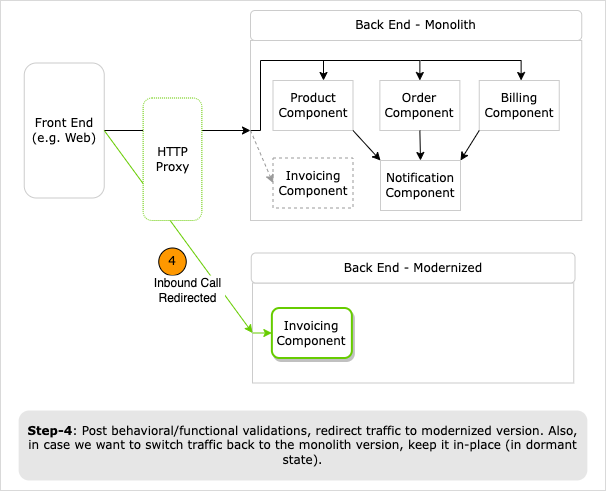
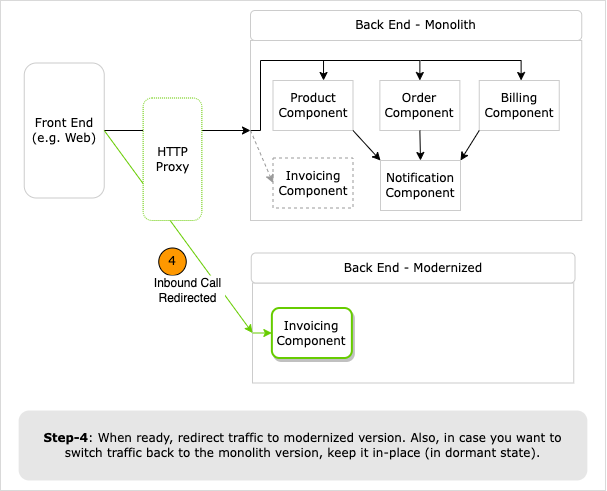
[v2-WIP] - clean up in process
1/ Cleaned up index and strangler fig
2/ WIP for Branch by Abstraction

diff --git a/modernization-patterns/1-strangler-fig-pattern.md b/modernization-patterns/1-strangler-fig-pattern.md
@@ -3,8 +3,9 @@
 ## Pattern Origins (optional read)
 <details>
 <summary>click to expand</summary>
-First captured by Martin Fowler, who was inspired by a certain type of fig that seeds itself in the upper branches of trees. The existing tree becomes initially a support structure for the new fig. The fig then descends toward the ground to take root, gradually enveloping the original tree, and leaving only the new self-supporting fig in its place.
+First captured by Martin Fowler [link](https://martinfowler.com/bliki/StranglerFigApplication.html), who was inspired by a certain type of fig that seeds itself in the upper branches of trees. The existing tree becomes initially a support structure for the new fig. The fig then descends toward the ground to take root, gradually enveloping the original tree, and leaving only the new self-supporting fig in its place.
 </details>
+
 <br/>
 
 ## Overview
@@ -12,22 +13,22 @@ First captured by Martin Fowler, who was inspired by a certain type of fig that 
 <details>
 <summary>click to expand</summary>
 
-This pattern is commonly used to incrementally replace a legacy system - component by component - with a modernized version. The idea is that the old and the new will co-exist and new system initially be supported by, and wrapping, the existing system. This will give the new system time to grow and potentially entirely replace the old system. 
+Commonly used to incrementally replace a legacy system - component by component - with a modernized version. Goal is for legacy and new modernized versions to co-exist; new system initially be supported by, and wrapping, the existing system. This will give the new system time to grow and potentially entirely replace the old system. 
 
-For the strangler to work well: 1/ you need to be able to intercept outside the system calls at the perimeter of your monolith and 2/ easily redirect the inbound calls for functionality you care about to the asset that you want to move.
+For Strangler Fig pattern to work well: 1/ you need to be able to intercept outside the system calls at the perimeter of your monolith and 2/ easily redirect the inbound calls for functionality you care about to the asset that you want to move.
 
-In the example diagram below, Strangler Fig pattern will work well for Product, Order, Billing, and Invoicing components. You can intercept and redirect outside the system inbound HTTP calls to their modernized version. 
-
-On the Contrary, Strangler Fig pattern would not work well for Notification component. Because notifications are fired as a result of multiple inbound calls to the existing monolith. Therefore, you can’t clearly redirect the calls from outside the system itself. Another pattern called [Branch by Abstraction](./2-branch-by-abstraction.md) would work well (discussed later).
+In the example diagram below, Strangler Fig pattern will work well for Product, Order, Billing, and Invoicing components. You can intercept and redirect outside the system inbound HTTP calls to their modernized version.
 
 ![strangler fig pattern tldr](../diagrams/strangler-fig-pattern-tldr.png)
 
-> The more work you have to do in the proxy layer to understand and potentially redirect the inbound call, the less viable Strangler Fig pattern option may become.
+On the Contrary, Strangler Fig pattern would not work well for Notification component. Because notifications are fired as a result of multiple inbound calls to the legacy application. Therefore, you can’t clearly redirect the calls from outside the system itself. Another pattern called [Branch by Abstraction](./2-branch-by-abstraction.md) would work well (discussed later).
 
 **How It Work (TL;DR)**
 1. Identify component(s) to modernize first.
-1. Parallel to the monolith, modernize component(s); as applicable, port or re-write.
-1. Keep monolith around (for rollback) but redirect existing calls to the modernized version.
+1. In parallel to the legacy application, create modernized component(s); as applicable, port or re-write.
+1. Keep legacy version around (for rollback) and slowly start redirecting traffic to the modernized version.
+
+> Tip: The more work you have to do in the proxy layer to understand and potentially redirect the inbound call, the less viable Strangler Fig pattern option may become.
 
 </details>
 
@@ -38,76 +39,73 @@ On the Contrary, Strangler Fig pattern would not work well for Notification comp
 <details>
 <summary>click to expand</summary>
 
-- This pattern allows you to move functionality over to your new services architecture without having to touch or make any changes to your existing system.
-
-- Incremental modernization to a new system gives you the ability to pause/stop while still taking advantage of the new system delivered so far.
+- Allows you to incrmentally move functionality over to your modernized architecture without causing disruption to your legacy application.
 
 - Without switching live traffic, you can deploy the modernized components to production, perform tests in-parallel to the existing system, and validate functional behavior.
 
-> **Deployment vs Release**: Important to keep the deployment & release concepts separate. `Deployment`: only push to Production and validate functional behavior. When modernized component is ready to be consumed by the end user, you can `Release` it (goes live).
+- Incremental modernization gives you the ability to pause/stop while still taking advantage of the modernized system delivered so far.
+
+> **Deployment vs Release**: Important to keep the deployment & release concepts separate. `Deployment`: Push to production and validate functional behavior. It's not live yet! 
+`Release`: When modernized component is ready, you can start directing user traffic to it.
 
 **Be mindful:**
 
-- To modernize components which exist deeper inside the existing system with upstream dependencies, [Branch by Abstraction](./2-branch-by-abstraction.md) is better pattern.
-
-  Example: In sample application depicted below, you want to modernize Notification component.
-
-  ![branch-by-abstraction-overview](../diagrams/branch-by-abstraction-overview.png)
-
 - While modernizing component, try to freeze functional or behavioral changes (e.g. bug fixes or feature additions).
-  - Allowing changes may make the rollback - switch from modernized to monolith version - scenario much harder.
+  - Allowing changes may make the rollback - switch from modernized to legacy version - scenario much harder.
 
 </details>
 
 <br/>
 
-## Pattern Execution Process
+## Pattern Execution Walkthrough
 
 <details>
 <summary>click to expand</summary>
 
- Prior to steps below, ensure you've reviewed `Decomposed Monolith to Modular Services / Baseline` section in [index.md](../index.md).
+ Prior to steps below, ensure you've reviewed `Modernization Baseline` section in [index.md](../index.md).
 
-1. Identify modernization candidate component(s). For the sample application depicted below, we will choose Invoicing component.
+1. Identify modernization candidate component(s). From sample legacy application depicted below, you will choose Invoicing component with no upstream dependencies.
 
     ![strangler-fig-identify-component](../diagrams/strangler-fig-identify-component.png)
 
-1. Incorporate HTTP Proxy (e.g API Gateway) to help control the incoming traffic (e.g. switch between monolith/modernized versions).
+1. Incorporate HTTP Proxy (e.g API Gateway) to intercept and direct outside the system calls (e.g. switch between monolith/modernized versions).
 
     1. If Proxy is new to the ecosystem, then integrate one, as simple pass through.
-    1. Pass through approach will help you: 1/ assess impact of adding network hop and acceptable latency and 2/ ensure the system continues to operate as before.
+    1. Pass through approach will help you: 
+     - 1/ assess impact of adding network hop and acceptable latency
+     - 2/ ensure the system continues to operate as before.
 
     ![strangler-fig-http-proxy](../diagrams/strangler-fig-http-proxy.png)
 
     **Be mindful**
     1. Follow the mantra of “smart endpoints and dumb pipes". You're optimizing for independent deployability of your services and converting this Proxy into yet another *shared* smart middleware pipe could slow down the process of making and deploying changes quickly.
-    1. One alternative could be to push any protocol translation into the service itself (e.g. JSON-->gRPC).
+    1. Where applicable, try to push any protocol translation into the service itself (e.g. JSON-->gRPC).
     1. Another alternative is service mesh: each service instance communicates with other service instances via its own, dedicated local proxy. Local proxy helps avoid creating a shared smart pipe and each service can own its own piece of the service-to-service pipe as needed.
 
         ![strangler-fig-service-mesh](../diagrams/strangler-fig-service-mesh.png)
 
-1. Get a basic component up and running without any functionality being implemented.
+1. Get a skeleton of modernized component up and running without any functionality being implemented.
     1. Component should accept calls made to the match the functionality but at this point you can return 501, Not Implemented. 
     1. Optionally, you could get this component deployed to production. This will help you become comfortable with production push process through your CI/CD pipelines. Its not released yet (gone live).
 
-1. Iteratively modernize component's functionality. Example:
-    1. Modernize (port or re-write) component's functionality from .NET Framework to .NET Core, targeting Linux (ARM or x86).
+1. Incrementally, modernize component's functionality. Example:
+    1. Port or re-write component's functionality from .NET Framework to .NET Core, targeting Linux (ARM or x86).
     1. Reference common libraries via NuGet packages.
     1. Containerize the component (e.g. Docker).
-    1. As you continue to build out the modernized component, you can iteratively start pushing it to production and validate that its working as expected.
+    1. Iteratively start pushing it to production and validate that its working as expected.
 
     ![strangler-fig-modernize-component](../diagrams/strangler-fig-modernize-component.png)
 
-    > [Tip] - While porting, ensure any functionality rewrites are small - doable over few days or weeks - and you could ship this reworked functionality to your customers regularly. If the timelines start to look more like several months, you should reexamine your approach.
+    > [Tip] - While modernizing, ensure any functionality rewrites are small - doable over few days or weeks - and if needed, you could ship this reworked functionality to your customers regularly. If modernization timelines start to look more like several months, you should reexamine your approach.
 
-1. Redirect Calls
+1. Redirect Traffic
 
-    1. Modernized component is fully built, tested, and deployed to production and ready to go live! Also, leave the monolith in place as fallback.
-    1. Configure the HTTP Proxy to redirect calls to the modernized component.
+    1. Modernized component is fully built, tested, and deployed to production and serve user traffic.
+    1. Configure your HTTP Proxy to redirect outside the system call to the modernized component.
 
         ![strangler-fig-switch-traffic](../diagrams/strangler-fig-switch-traffic.png)
     
-    1. Other common approaches:
+    1. Other common approaches to control traffic:
         1. Use Feature flags.
         1. Canary deployment.
         1. Parallel run alongside the monolith to ensure its outputs matches the existing functionality.

diff --git a/index.md b/index.md
@@ -1,47 +1,61 @@
 # Objectives
 
-Modernizing a Monolith application is a journey of consistent and iterative takes rather than a big bang. There is no silver bullet or perfect approach or perfect architecture. It's about moving forward with the trade-offs that work best for your organization.
+Modernizing legacy application is a journey of consistent and iterative takes rather than a big bang. Your modernization journey should adhere to following tenets:
 
-Below we will discuss recommendations to plan your journey in ways that you can continue to support the existing business (i.e. monolith app) and achieve value driven progress towards your modernization goals.
+- With minimal to no risk, quickly build confidence in your modernization approach (i.e. blueprint).
+- Minimize disruptions to other developers working in parallel on the existing system.
+- Continuously show incremental modernization gains with the flexibility to pause/stop modernization while retaining the investment.
 
-## Modernization Approach Tenets
+In this module, you will learn about two modernization patterns - Strangler Fig and Branch by Abstraction - to help with your modernization journey.
 
-1. With minimal to no risk, quickly build confidence in your modernization approach.
-1. Minimize disruptions to other developers working in parallel on the existing system.
-1. Ability to continuously show modernization value with the flexibility to pause/stop modernization while retaining the investment.
+> Anecdote: There is no silver bullet, perfect architecture, or perfect approach. Avoid analysis paralysis and move forward with trade-offs that work best for your organization.
+
+<br/>
 
 ## Common Problems to Solve
 
-Let's review some common hurdles that Enterprises face on their modernization journey.
+<details>
+<summary>click to expand</summary>
+Let's review common hurdles that Enterprises face on their modernization journey.
 
-1. Where to start chipping away at the monolith; identify specific component(s) to modernize first.
+1. Where to start chipping away at the legacy application; identify specific component(s) to modernize first.
 
-1. You may find yourself in conundrum: efficiently leverage in-house bandwidth to achieve balance across parallel tracks like:
-    1. Continue to support your existing business and ship features/bug fixes for the monolith.
-    2. Support both monolith and modernized code-bases: share common libraries, copy/fork the code, etc.
-    3. Ensure the monolith and modernized version continues to co-exist with minimal to no interruptions.
+1. You may find yourself in conundrum: how to efficiently leverage in-house bandwidth to achieve balance across parallel tracks like:
+    1. Continue to support ship features/bug fixes for your legacy application.
+    2. Support both legacy and modernized code-bases: share common libraries, copy/fork the code, etc.
+    3. Ensure the legacy and modernized versions continue to co-exist with minimal to no interruptions.
+
+1. Additional hurdles to be mindful off (not covered here)
+    1. Transition Authentication/Authorization from home grown solutions to a managed Identity Provider (e.g. Okta).
+    1. Move database access towards modern object-relational mapper (ORM) frameworks like Entity Framework Core.
 
 Sections below will provide suggestions to help solve these common problems.
+</details>
+
+<br/>
 
 ## Modernization Baseline
 
+<details>
+<summary>click to expand</summary>
+
 Following steps should be the starting point for any modernization approach.
 
-1. Overall, follow the mantra of "modernization in small increments".
+1. Overall, follow the mantra to modernize legacy application in small increments (e.g. component by component).
     1. While modernizing, delay or freeze any functional or behavioral changes. Otherwise, you will have to accept that roll-backs would become harder.
-    1. Also, the longer it takes to modernize components, the more pressure/risk you may incur to allow behavioral changes into the monolith version of the component (e.g. bug fixes).
+    1. Duration of component modernization should be between few days to weeks. The longer it takes to modernize components, the more pressure/risk you may incur to allow behavioral changes into the legacy version of the component (e.g. bug fixes).
 
-1. Start with the analysis of your monolith (yes, captain obvious here!)
-    1. Build out a dependency graph that shows 1/ breakdown of monolith's components (your services and 3rd party libraries) and 2/ relationships across components.
-    1. Analyze portability of these components to .NET Standard 2.0 and .NET Core. Targeting .NET Standard 2.0 will help you share common libraries between ASP.NET and .NET (aka .NET Core) codebase.
-    1. Identify monolith component owners in your organization to 1/ validate your analysis and 2/ coordinate modernization timelines.
+1. Start with the analysis of your legacy application (yes, captain obvious here!)
+    1. Build out a dependency graph that shows 1/ breakdown of application's components (your services and 3rd party libraries) and 2/ relationships across components.
+    1. Analyze portability of these components to .NET Standard 2.0 and .NET Core. Targeting .NET Standard 2.0 will help you share common libraries between your codebases .NET Framework and .NET (aka .NET Core).
+    1. Identify component owners in your organization to 1/ validate your analysis and 2/ coordinate modernization effort and timelines.
 
     You can leverage no-cost tools like [AWS .NET Extractor](https://aws.amazon.com/microservice-extractor/) or [AWS .NET Porting Assistant](https://aws.amazon.com/porting-assistant-dotnet/).
 
     > FYI: .NET Framework 4.6.1 is the earliest version to support .NET Standard 2.0.
 
-1. From the analysis graph tree, identify leafs as the starting point; monolith component(s) with minimal incoming dependencies.
-    1. You want the team to build a modernization blueprint first: 1/ gain confidence in porting approach (e.g. ASP.NET 4.7 -to- .NET LTS), 2/ stand-up the necessary infrastructure, 3/ establish your observability approach for the distributed system, and 4/ build out the DevOps mechanisms to enable Continuous Integration (CI) and Continuous Deployment (CD).
+1. From the analysis graph tree, identify leafs as the starting point; component(s) with minimal incoming dependencies.
+    1. You want the team to quickly build a modernization blueprint: 1/ gain confidence in porting approach (e.g. .NET Framework 4.7 -to- .NET LTS), 2/ stand-up necessary infrastructure, 3/ establish an observability approach for your distributed system, and 4/ build out the DevOps mechanisms to enable Continuous Integration (CI) and Continuous Deployment (CD).
 
 1. Also, for first round of components selection, go after high business value. Modernization value should help ensure your company continues to invest in it.
 
@@ -51,14 +65,35 @@ Following steps should be the starting point for any modernization approach.
 1. Strongly recommended: Adequate unit/integration test coverage to help validate the modernized components and include in your automation (CI).
     1. Adequate test coverage is a common challenge. In absence of test coverage, ensure to incorporate ample manual functional validation time in your modernization planning.
 
+</details>
+
+<br/>
+
 ## Modernization Patterns
 
-1. Use [Strangler Fig](./modernization-patterns/1-strangler-fig-pattern.md) pattern to modernize monolith components with minimal to no upstream dependencies.
-1. Use [Branch by Abstraction](./modernization-patterns/2-branch-by-abstraction.md) pattern to modernize monolith components that are deeper in the call stack with upstream dependencies.
+<details>
+<summary>click to expand</summary>
+Following is TL;DR for each pattern.
 
-## Appendix
+- **Strangler Fig** ([learn more](./modernization-patterns/1-strangler-fig-pattern.md))
+    - Suitable to modernize component with minimal to no upstream dependencies.
+    - Example
 
-### Tips
+        ![strangler-fig-pattern-tldr](./diagrams/strangler-fig-pattern-tldr.png)
+
+- **Branch by Abstraction** ([Learn More](./modernization-patterns/2-branch-by-abstraction.md))
+    - Suitable to modernize component that are deeper in the call stack with upstream dependencies.
+    - Example
+
+        ![branch-by-abstraction-tldr](./diagrams/branch-by-abstraction-tldr.png)
+
+</details>
+
+<br/>
+
+## Modernization Tips
+<details>
+<summary>click to expand</summary>
 
 1. Prior to modernization, ensure to discuss and adapt a development strategy that works best for your organization. Common approaches:
 
@@ -71,8 +106,25 @@ Following steps should be the starting point for any modernization approach.
 
 1. Logging: You can reference the Microsoft.Extensions.Logging package from .NET Framework apps as long as they’re using NuGet 4.3 or later and are on .NET Framework 4.6.1 or later. Once your app has referenced this package, you can convert your logging statements to use the new extensions before migrating the app to .NET Core.
 
+</details>
+
+<br/>
+
+## Appendix
+
+<details>
+<summary>click to expand</summary>
+
 ### Resources
 
 - [Blog] - [Branch by abstraction pattern](https://continuousdelivery.com/2011/05/make-large-scale-changes-incrementally-with-branch-by-abstraction/)
 - [Blog] - [Feature flag toggle approach - v1](https://martinfowler.com/articles/feature-toggles.html)
 - [Blog] - [Feature flag toggle approach - v2](https://www.cloudbees.com/blog/future-of-feature-flags)
+
+- Tools
+  - Scientist.NET ([gitHub](https://github.com/scientistproject/Scientist.net)):
+  A .NET Port of the *Scientist library* for carefully refactoring critical paths.
+
+    > Use this tool only for code that does not have any side-effects.
+
+</details>

diff --git a/modernization-patterns/2-branch-by-abstraction.md b/modernization-patterns/2-branch-by-abstraction.md
@@ -1,19 +1,19 @@
-# Branch by Abstraction (i.e. Interface & Concrete Implementation)
+# Branch by Abstraction Pattern (i.e. Interface & Concrete Implementation)
 
-This pattern is commonly used to modernize components that exists deeper in the monolith stack, with upstream dependencies (i.e. clients). This pattern relies on making changes to the existing codebase to allow the implementations to safely coexist alongside each other, in the same version of code, without causing too much disruption.
-
-For example, using Strangler Fig pattern would require changes to upstream clients - changes to other parts of the codebase - which would be disruptive to other developers. 
+Commonly used to modernize components that exist deeper in the legacy application stack, with upstream dependencies (i.e. clients). This pattern enables you to make changes to the existing codebase to allow the modernized version to safely coexist alongside the legacy version without causing much disruption.
 
 In the example diagram below, Branch by Abstraction pattern will work well for Notification component.
 
 ![branch-by-abstraction-tldr](../diagrams/branch-by-abstraction-tldr.png)
 
+On the contrary, using Strangler Fig pattern would require changes to upstream clients - changes to other parts of the codebase - which would be disruptive to other developers. 
+
 **How It Works (TL;DR)**
 
 1. Identify monolith components with upstream dependencies.
-1. Create an abstraction layer for the component to be replaced and the system restructured to use this abstraction.
-1. Alongside the old, create new implementation.
-1. Switch over the abstraction to new implementation.
+1. Create an abstraction layer for the component to be replaced and restructure the system to use this abstraction.
+1. Along the existing implementaiton, incrementally create new implementation (port functionlity over).
+1. When ready, switch abstraction over to new implementation.
 
 ## Pattern Benefits
 
@@ -21,7 +21,7 @@ In the example diagram below, Branch by Abstraction pattern will work well for N
 1. Since the system keeps on working, you could choose to release a working version of the system containing a half-completed modernization.
 1. Release schedule is completely decoupled from your architectural changes. You can stop working on the restructuring at any point to do something else that is higher priority.
 
-## Pattern Execution Process
+## Pattern Execution Walkthrough
 
 1. Create an abstraction layer that represents the interactions between the code to be modernized and its clients (the callers of this code.). For example, in C#, create an Interface based on the existing functionality that you want to modernize.
 
@@ -37,7 +37,7 @@ In the example diagram below, Branch by Abstraction pattern will work well for N
 
     ![branch-by-abstraction-completed-updates](../diagrams/branch-by-abstraction-clients-completed-updates.png)
 
-1. Create new implementation of the abstraction.
+1. Create new implementation (modernized version) of the abstraction.
     1. New implementation will likely exist outside your monolith, hosted under the modernized architecture. 
     1. Inside your monolith, you will have a client - acting as shell - calling out to the new implementation.
     1. Build incremental port of Notification functionality, new implementation can continue to stay dormant until tested and ready.
